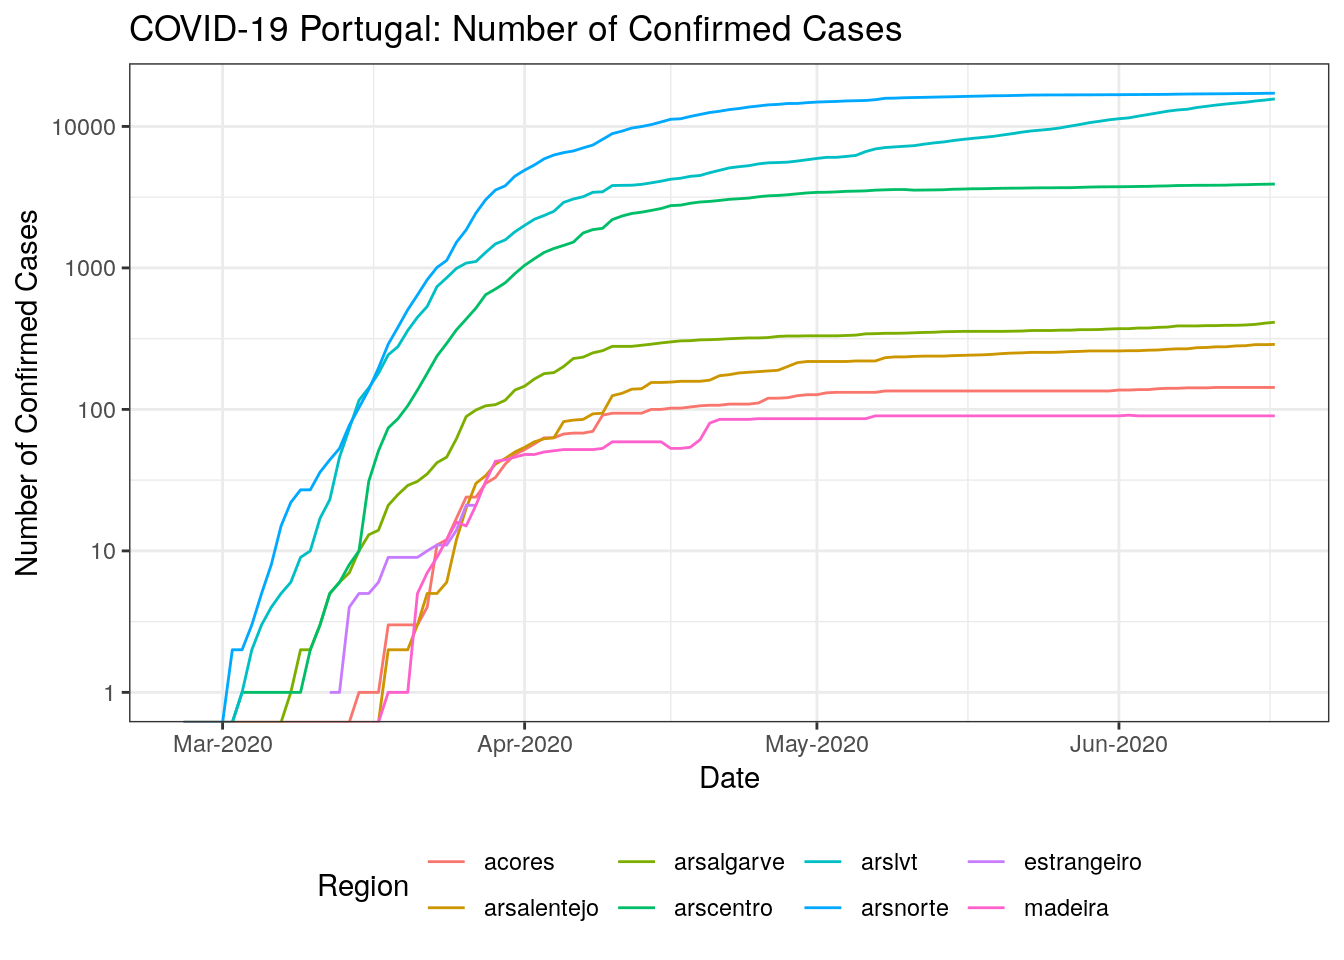
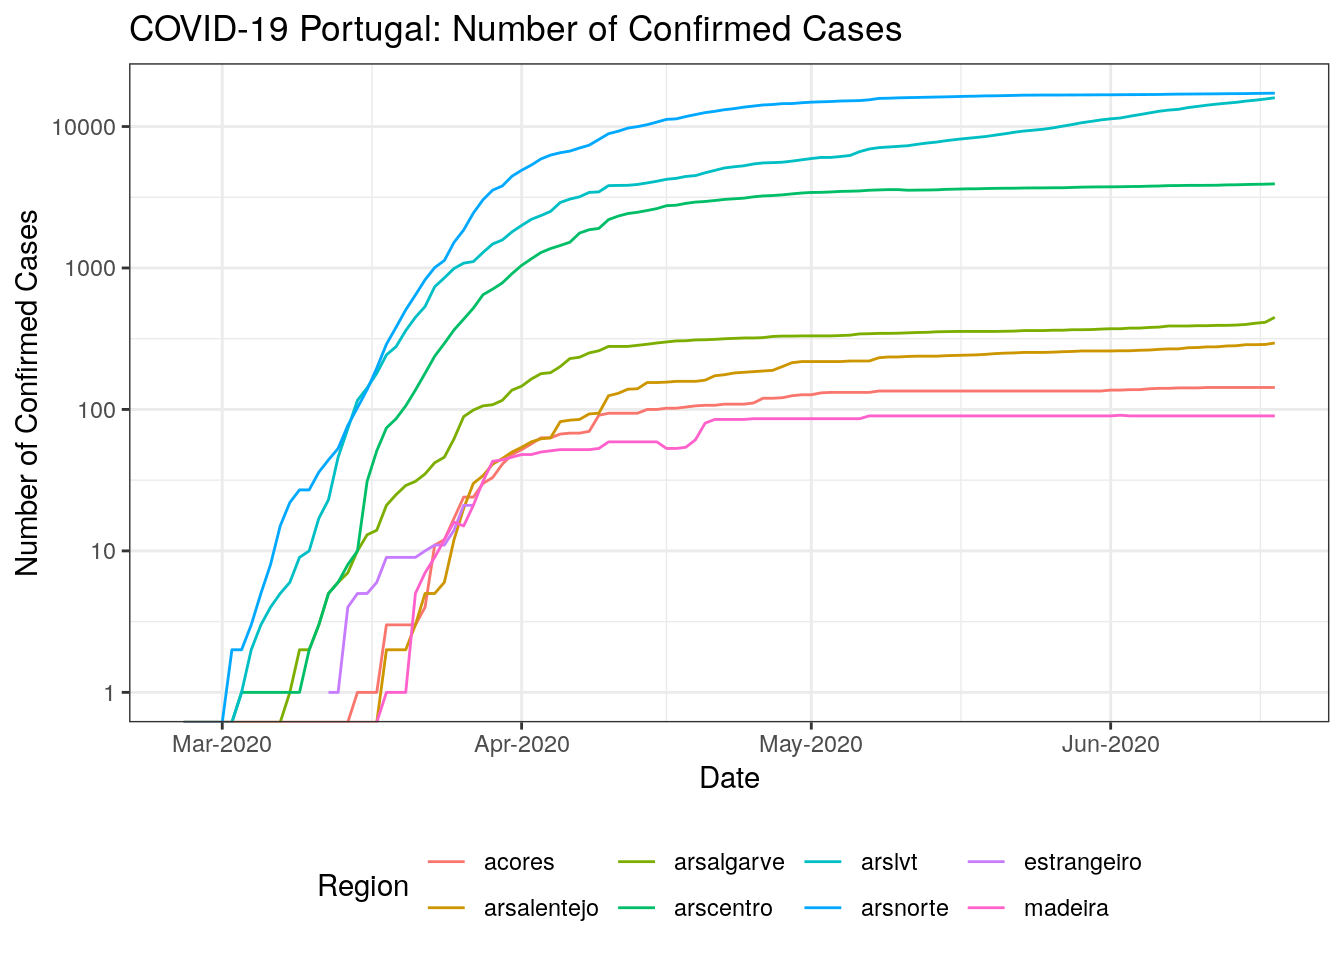
Updated to the latest data.

diff --git a/README.md b/README.md
@@ -82,7 +82,7 @@ CV[origType=="confirmados" & ageGrp=="" & region!="Portugal"] %>%
     y = "Number of Confirmed Cases",
     colour = "Region")
 ## Warning: Transformation introduced infinite values in continuous y-axis
-## Warning: Removed 97 row(s) containing missing values (geom_path).
+## Warning: Removed 98 row(s) containing missing values (geom_path).
 ```
 
 <img src="README_figs/README-casesbyRegion-1.png" width="672" />
@@ -101,9 +101,9 @@ CV[dayChange<0][
 ##   4: 2020-03-24 confirmados_40_49_f   224        -2
 ##   5: 2020-03-19 confirmados_60_69_f    35       -14
 ##  ---                                               
-## 262: 2020-05-31          vigilancia 27924      -259
-## 263: 2020-06-05          vigilancia 28088      -597
-## 264: 2020-06-08          vigilancia 28791      -521
-## 265: 2020-06-13          vigilancia 30655      -124
-## 266: 2020-06-17          vigilancia 30289      -521
+## 265: 2020-05-31          vigilancia 27924      -259
+## 266: 2020-06-05          vigilancia 28088      -597
+## 267: 2020-06-08          vigilancia 28791      -521
+## 268: 2020-06-13          vigilancia 30655      -124
+## 269: 2020-06-17          vigilancia 30289      -521
 ```
